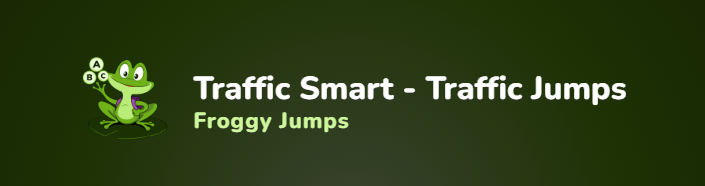
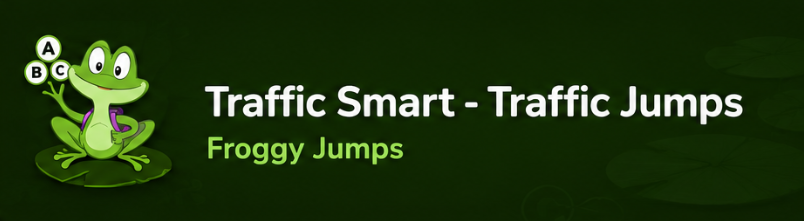
membetulkan yang belum betul

diff --git a/games.html b/games.html
@@ -84,11 +84,11 @@
             <h1 class="font-heading font-black text-3xl md:text-5xl lg:text-6xl text-white mb-3 md:mb-5 leading-[1.1]">
                 Eksplorasi <span class="text-amber">Game</span><br>Edukasi Lainnya
             </h1>
-            <p class="text-gray-400 text-sm md:text-base max-w-xl">Kuis interaktif, permainan katak, pencocokan rambu, dan memory game untuk memperluas wawasan lalu lintas.</p>
+            <p class="text-gray-400 text-sm md:text-base max-w-xl">Kuis interaktif, anagram, roda pertanyaan, word search, dan berbagai game edukasi lainnya untuk memperluas wawasan lalu lintas.</p>
             <div class="flex flex-wrap gap-3 mt-6">
                 <div class="flex items-center gap-2 bg-white/5 border border-white/10 rounded-xl px-3 md:px-4 py-2">
                     <i class="fa-solid fa-gamepad text-amber text-xs md:text-sm"></i>
-                    <span class="text-white text-[11px] md:text-xs font-bold">4 Game</span>
+                    <span class="text-white text-[11px] md:text-xs font-bold">9 Game</span>
                 </div>
                 <div class="flex items-center gap-2 bg-white/5 border border-white/10 rounded-xl px-3 md:px-4 py-2">
                     <i class="fa-solid fa-globe text-green-400 text-xs md:text-sm"></i>
@@ -108,8 +108,8 @@
 
             <!-- Game 1 -->
             <div class="bg-white rounded-2xl shadow-md border border-gray-100 fade-up" style="overflow:hidden;">
-                <div style="position:relative;height:200px;overflow:hidden;">
-                    <img src="game1.webp" alt="A, B or C?" style="width:100%;height:100%;object-fit:cover;display:block;">
+                <div style="position:relative;height:200px;overflow:hidden;background:#ffffff;">
+                    <img src="game1.webp" alt="A, B or C?" style="width:100%;height:100%;object-fit:contain;display:block;">
                     <div style="position:absolute;inset:0;background:linear-gradient(to top,rgba(0,0,0,0.3),transparent);"></div>
                     <span style="position:absolute;top:10px;right:10px;background:rgba(255,255,255,0.95);color:#6b21a8;font-weight:700;font-size:10px;padding:3px 10px;border-radius:8px;box-shadow:0 2px 8px rgba(0,0,0,0.1);z-index:2;">Kahoot!</span>
                     <span style="position:absolute;bottom:10px;left:12px;background:rgba(147,51,234,0.85);color:white;font-weight:700;font-size:9px;padding:2px 8px;border-radius:6px;text-transform:uppercase;z-index:2;">Kuis Pilihan Ganda</span>
@@ -123,8 +123,8 @@
 
             <!-- Game 2 -->
             <div class="bg-white rounded-2xl shadow-md border border-gray-100 fade-up" style="overflow:hidden;">
-                <div style="position:relative;height:200px;overflow:hidden;">
-                    <img src="game2.webp" alt="Traffic Jumps" style="width:100%;height:100%;object-fit:cover;display:block;">
+                <div style="position:relative;height:200px;overflow:hidden;background:#1a3a1a;">
+                    <img src="game2.webp" alt="Traffic Jumps" style="width:100%;height:100%;object-fit:contain;display:block;">
                     <div style="position:absolute;inset:0;background:linear-gradient(to top,rgba(0,0,0,0.3),transparent);"></div>
                     <span style="position:absolute;top:10px;right:10px;background:rgba(255,255,255,0.95);color:#166534;font-weight:700;font-size:10px;padding:3px 10px;border-radius:8px;box-shadow:0 2px 8px rgba(0,0,0,0.1);z-index:2;">Educaplay</span>
                     <span style="position:absolute;bottom:10px;left:12px;background:rgba(22,163,74,0.85);color:white;font-weight:700;font-size:9px;padding:2px 8px;border-radius:6px;text-transform:uppercase;z-index:2;">Froggy Jumps</span>
@@ -138,8 +138,8 @@
 
             <!-- Game 3 -->
             <div class="bg-white rounded-2xl shadow-md border border-gray-100 fade-up" style="overflow:hidden;">
-                <div style="position:relative;height:200px;overflow:hidden;">
-                    <img src="game3.webp" alt="Pasangan Jejak Rambu" style="width:100%;height:100%;object-fit:cover;display:block;">
+                <div style="position:relative;height:200px;overflow:hidden;background:#1a3a1a;">
+                    <img src="game3.webp" alt="Pasangan Jejak Rambu" style="width:100%;height:100%;object-fit:contain;display:block;">
                     <div style="position:absolute;inset:0;background:linear-gradient(to top,rgba(0,0,0,0.3),transparent);"></div>
                     <span style="position:absolute;top:10px;right:10px;background:rgba(255,255,255,0.95);color:#1e40af;font-weight:700;font-size:10px;padding:3px 10px;border-radius:8px;box-shadow:0 2px 8px rgba(0,0,0,0.1);z-index:2;">Educaplay</span>
                     <span style="position:absolute;bottom:10px;left:12px;background:rgba(37,99,235,0.85);color:white;font-weight:700;font-size:9px;padding:2px 8px;border-radius:6px;text-transform:uppercase;z-index:2;">Matching Game</span>
@@ -153,8 +153,8 @@
 
             <!-- Game 4 -->
             <div class="bg-white rounded-2xl shadow-md border border-gray-100 fade-up" style="overflow:hidden;">
-                <div style="position:relative;height:200px;overflow:hidden;">
-                    <img src="game4.webp" alt="Memory Rambu" style="width:100%;height:100%;object-fit:cover;display:block;">
+                <div style="position:relative;height:200px;overflow:hidden;background:#1a3a1a;">
+                    <img src="game4.webp" alt="Memory Rambu" style="width:100%;height:100%;object-fit:contain;display:block;">
                     <div style="position:absolute;inset:0;background:linear-gradient(to top,rgba(0,0,0,0.3),transparent);"></div>
                     <span style="position:absolute;top:10px;right:10px;background:rgba(255,255,255,0.95);color:#92400e;font-weight:700;font-size:10px;padding:3px 10px;border-radius:8px;box-shadow:0 2px 8px rgba(0,0,0,0.1);z-index:2;">Educaplay</span>
                     <span style="position:absolute;bottom:10px;left:12px;background:rgba(245,158,11,0.85);color:white;font-weight:700;font-size:9px;padding:2px 8px;border-radius:6px;text-transform:uppercase;z-index:2;">Memory Game</span>
@@ -163,6 +163,81 @@
                     <h3 style="font-family:'Poppins',sans-serif;font-weight:700;font-size:18px;color:#0A1A32;margin:0 0 6px 0;">Memory Rambu Lalu Lintas</h3>
                     <p style="color:#6b7280;font-size:13px;line-height:1.6;margin:0 0 16px 0;">Cari dan cocokkan pasangan kartu rambu lalu lintas untuk melatih daya ingat.</p>
                     <a href="https://www.educaplay.com/learning-resources/29994264-traffic_smart.html" target="_blank" style="display:block;text-align:center;background:#f59e0b;color:white;font-weight:700;padding:12px;border-radius:12px;font-size:14px;text-decoration:none;box-shadow:0 4px 14px rgba(245,158,11,0.25);">Mainkan Sekarang &#8594;</a>
+                </div>
+            </div>
+
+            <!-- Game 5 -->
+            <div class="bg-white rounded-2xl shadow-md border border-gray-100 fade-up" style="overflow:hidden;">
+                <div style="position:relative;height:200px;overflow:hidden;background:#2a2a2a;">
+                    <img src="game5.webp" alt="Roda Pertanyaan" style="width:100%;height:100%;object-fit:contain;display:block;">
+                    <div style="position:absolute;inset:0;background:linear-gradient(to top,rgba(0,0,0,0.3),transparent);"></div>
+                    <span style="position:absolute;top:10px;right:10px;background:rgba(255,255,255,0.95);color:#dc2626;font-weight:700;font-size:10px;padding:3px 10px;border-radius:8px;box-shadow:0 2px 8px rgba(0,0,0,0.1);z-index:2;">Wordwall</span>
+                    <span style="position:absolute;bottom:10px;left:12px;background:rgba(220,38,38,0.85);color:white;font-weight:700;font-size:9px;padding:2px 8px;border-radius:6px;text-transform:uppercase;z-index:2;">Roda Pertanyaan</span>
+                </div>
+                <div style="padding:16px 20px 20px;">
+                    <h3 style="font-family:'Poppins',sans-serif;font-weight:700;font-size:18px;color:#0A1A32;margin:0 0 6px 0;">Roda Pertanyaan</h3>
+                    <p style="color:#6b7280;font-size:13px;line-height:1.6;margin:0 0 16px 0;">Putar roda dan jawab pertanyaan seputar lalu lintas untuk menguji pengetahuanmu.</p>
+                    <a href="https://wordwall.net/id/resource/116395813/traffic-smart/traffic-smart-roda-pertanyaan" target="_blank" style="display:block;text-align:center;background:#dc2626;color:white;font-weight:700;padding:12px;border-radius:12px;font-size:14px;text-decoration:none;box-shadow:0 4px 14px rgba(220,38,38,0.25);">Mainkan Sekarang &#8594;</a>
+                </div>
+            </div>
+
+            <!-- Game 6 -->
+            <div class="bg-white rounded-2xl shadow-md border border-gray-100 fade-up" style="overflow:hidden;">
+                <div style="position:relative;height:200px;overflow:hidden;background:#3d2b1f;">
+                    <img src="game6.webp" alt="Anagram" style="width:100%;height:100%;object-fit:contain;display:block;">
+                    <div style="position:absolute;inset:0;background:linear-gradient(to top,rgba(0,0,0,0.3),transparent);"></div>
+                    <span style="position:absolute;top:10px;right:10px;background:rgba(255,255,255,0.95);color:#dc2626;font-weight:700;font-size:10px;padding:3px 10px;border-radius:8px;box-shadow:0 2px 8px rgba(0,0,0,0.1);z-index:2;">Wordwall</span>
+                    <span style="position:absolute;bottom:10px;left:12px;background:rgba(168,85,247,0.85);color:white;font-weight:700;font-size:9px;padding:2px 8px;border-radius:6px;text-transform:uppercase;z-index:2;">Anagram</span>
+                </div>
+                <div style="padding:16px 20px 20px;">
+                    <h3 style="font-family:'Poppins',sans-serif;font-weight:700;font-size:18px;color:#0A1A32;margin:0 0 6px 0;">Anagram Menyusun Huruf</h3>
+                    <p style="color:#6b7280;font-size:13px;line-height:1.6;margin:0 0 16px 0;">Susun huruf acak menjadi kata-kata terkait rambu lalu lintas dengan cepat.</p>
+                    <a href="https://wordwall.net/id/resource/116495567/traffic-smart/traffic-smart-anagram-menyusun-huruf" target="_blank" style="display:block;text-align:center;background:#a855f7;color:white;font-weight:700;padding:12px;border-radius:12px;font-size:14px;text-decoration:none;box-shadow:0 4px 14px rgba(168,85,247,0.25);">Mainkan Sekarang &#8594;</a>
+                </div>
+            </div>
+
+            <!-- Game 7 -->
+            <div class="bg-white rounded-2xl shadow-md border border-gray-100 fade-up" style="overflow:hidden;">
+                <div style="position:relative;height:200px;overflow:hidden;background:#1a3a1a;">
+                    <img src="game7.webp" alt="Mencocokkan Kalimat" style="width:100%;height:100%;object-fit:contain;display:block;">
+                    <div style="position:absolute;inset:0;background:linear-gradient(to top,rgba(0,0,0,0.3),transparent);"></div>
+                    <span style="position:absolute;top:10px;right:10px;background:rgba(255,255,255,0.95);color:#1e40af;font-weight:700;font-size:10px;padding:3px 10px;border-radius:8px;box-shadow:0 2px 8px rgba(0,0,0,0.1);z-index:2;">Educaplay</span>
+                    <span style="position:absolute;bottom:10px;left:12px;background:rgba(37,99,235,0.85);color:white;font-weight:700;font-size:9px;padding:2px 8px;border-radius:6px;text-transform:uppercase;z-index:2;">Mencocokkan Kalimat</span>
+                </div>
+                <div style="padding:16px 20px 20px;">
+                    <h3 style="font-family:'Poppins',sans-serif;font-weight:700;font-size:18px;color:#0A1A32;margin:0 0 6px 0;">Mencocokkan Kalimat</h3>
+                    <p style="color:#6b7280;font-size:13px;line-height:1.6;margin:0 0 16px 0;">Cocokkan kalimat peraturan lalu lintas dengan jawaban yang tepat.</p>
+                    <a href="https://www.educaplay.com/learning-resources/29993938-traffic_smart_mencocokkan_kalimat.html" target="_blank" style="display:block;text-align:center;background:#2563eb;color:white;font-weight:700;padding:12px;border-radius:12px;font-size:14px;text-decoration:none;box-shadow:0 4px 14px rgba(37,99,235,0.25);">Mainkan Sekarang &#8594;</a>
+                </div>
+            </div>
+
+            <!-- Game 8 -->
+            <div class="bg-white rounded-2xl shadow-md border border-gray-100 fade-up" style="overflow:hidden;">
+                <div style="position:relative;height:200px;overflow:hidden;background:#1a3a1a;">
+                    <img src="game8.webp" alt="ABCD Rambu Lalu Lintas" style="width:100%;height:100%;object-fit:contain;display:block;">
+                    <div style="position:absolute;inset:0;background:linear-gradient(to top,rgba(0,0,0,0.3),transparent);"></div>
+                    <span style="position:absolute;top:10px;right:10px;background:rgba(255,255,255,0.95);color:#1e40af;font-weight:700;font-size:10px;padding:3px 10px;border-radius:8px;box-shadow:0 2px 8px rgba(0,0,0,0.1);z-index:2;">Educaplay</span>
+                    <span style="position:absolute;bottom:10px;left:12px;background:rgba(245,158,11,0.85);color:white;font-weight:700;font-size:9px;padding:2px 8px;border-radius:6px;text-transform:uppercase;z-index:2;">ABCD</span>
+                </div>
+                <div style="padding:16px 20px 20px;">
+                    <h3 style="font-family:'Poppins',sans-serif;font-weight:700;font-size:18px;color:#0A1A32;margin:0 0 6px 0;">ABCD Rambu Lalu Lintas</h3>
+                    <p style="color:#6b7280;font-size:13px;line-height:1.6;margin:0 0 16px 0;">Pilihan ganda interaktif untuk menguji pemahaman tentang rambu lalu lintas Indonesia.</p>
+                    <a href="https://www.educaplay.com/learning-resources/29994189-rambu_lalu_lintas_indonesia.html" target="_blank" style="display:block;text-align:center;background:#f59e0b;color:white;font-weight:700;padding:12px;border-radius:12px;font-size:14px;text-decoration:none;box-shadow:0 4px 14px rgba(245,158,11,0.25);">Mainkan Sekarang &#8594;</a>
+                </div>
+            </div>
+
+            <!-- Game 9 -->
+            <div class="bg-white rounded-2xl shadow-md border border-gray-100 fade-up" style="overflow:hidden;">
+                <div style="position:relative;height:200px;overflow:hidden;background:#1a3a1a;">
+                    <img src="game9.webp" alt="Word Search Puzzles" style="width:100%;height:100%;object-fit:contain;display:block;">
+                    <div style="position:absolute;inset:0;background:linear-gradient(to top,rgba(0,0,0,0.3),transparent);"></div>
+                    <span style="position:absolute;top:10px;right:10px;background:rgba(255,255,255,0.95);color:#1e40af;font-weight:700;font-size:10px;padding:3px 10px;border-radius:8px;box-shadow:0 2px 8px rgba(0,0,0,0.1);z-index:2;">Educaplay</span>
+                    <span style="position:absolute;bottom:10px;left:12px;background:rgba(20,184,166,0.85);color:white;font-weight:700;font-size:9px;padding:2px 8px;border-radius:6px;text-transform:uppercase;z-index:2;">Word Search</span>
+                </div>
+                <div style="padding:16px 20px 20px;">
+                    <h3 style="font-family:'Poppins',sans-serif;font-weight:700;font-size:18px;color:#0A1A32;margin:0 0 6px 0;">Word Search Puzzles</h3>
+                    <p style="color:#6b7280;font-size:13px;line-height:1.6;margin:0 0 16px 0;">Temukan kata-kata tersembunyi seputar rambu dan peraturan lalu lintas dalam teka-teki kata.</p>
+                    <a href="https://www.educaplay.com/learning-resources/29994743-traffic_smart_word_search_puzzle.html" target="_blank" style="display:block;text-align:center;background:#14b8a6;color:white;font-weight:700;padding:12px;border-radius:12px;font-size:14px;text-decoration:none;box-shadow:0 4px 14px rgba(20,184,166,0.25);">Mainkan Sekarang &#8594;</a>
                 </div>
             </div>
 
@@ -197,7 +272,7 @@
                 <div>
                     <h4 class="font-heading font-bold text-sm text-navy mb-3">Kontak</h4>
                     <div class="space-y-2 text-xs text-gray-500">
-                        <div class="flex items-center gap-2"><i class="fa-solid fa-envelope text-amber w-4"></i> trafficSmartEdu@gmail.com</div>
+                        <div class="flex items-center gap-2"><i class="fa-solid fa-envelope text-amber w-4"></i> trafficsmart.edu@gmail.com</div>
                         <div class="flex items-center gap-2"><i class="fa-brands fa-whatsapp text-green-500 w-4"></i> 0812-4711-9063</div>
                         <div class="flex items-center gap-2"><i class="fa-solid fa-location-dot text-red-400 w-4"></i> Mahakam Ulu, Kalimantan Timur</div>
                     </div>

diff --git a/index.html b/index.html
@@ -133,26 +133,26 @@
             <div class="max-w-7xl mx-auto">
                 <h2 class="fade-up font-heading font-bold text-2xl md:text-4xl text-navy text-center mb-10 md:mb-14">Fitur Utama</h2>
                 <div class="grid grid-cols-2 md:grid-cols-4 gap-4 md:gap-8">
-                    <div class="fade-up delay-100 feature-card bg-white p-4 md:p-8 rounded-2xl md:rounded-3xl shadow-sm border border-gray-100 text-center">
+                    <a href="materi.html" class="fade-up delay-100 feature-card bg-white p-4 md:p-8 rounded-2xl md:rounded-3xl shadow-sm border border-gray-100 text-center block hover:shadow-lg transition-shadow">
                         <div class="w-12 h-12 md:w-16 md:h-16 bg-blue-50 rounded-full flex items-center justify-center mx-auto mb-3 md:mb-5"><i class="fa-solid fa-book-open text-blue-500 text-lg md:text-2xl"></i></div>
                         <h4 class="font-bold text-navy text-sm md:text-lg mb-1 md:mb-2">Materi</h4>
                         <p class="text-gray-500 text-xs md:text-sm leading-relaxed">Panduan lengkap rambu dan marka jalan.</p>
-                    </div>
-                    <div class="fade-up delay-200 feature-card bg-white p-4 md:p-8 rounded-2xl md:rounded-3xl shadow-sm border border-gray-100 text-center">
+                    </a>
+                    <a href="simulasi.html" class="fade-up delay-200 feature-card bg-white p-4 md:p-8 rounded-2xl md:rounded-3xl shadow-sm border border-gray-100 text-center block hover:shadow-lg transition-shadow">
                         <div class="w-12 h-12 md:w-16 md:h-16 bg-amber/10 rounded-full flex items-center justify-center mx-auto mb-3 md:mb-5"><i class="fa-solid fa-shield-halved text-amber text-lg md:text-2xl"></i></div>
                         <h4 class="font-bold text-navy text-sm md:text-lg mb-1 md:mb-2">Simulasi</h4>
                         <p class="text-gray-500 text-xs md:text-sm leading-relaxed">Praktek berkendara aman di virtual.</p>
-                    </div>
-                    <div class="fade-up delay-300 feature-card bg-white p-4 md:p-8 rounded-2xl md:rounded-3xl shadow-sm border border-gray-100 text-center">
+                    </a>
+                    <a href="materi.html" class="fade-up delay-300 feature-card bg-white p-4 md:p-8 rounded-2xl md:rounded-3xl shadow-sm border border-gray-100 text-center block hover:shadow-lg transition-shadow">
                         <div class="w-12 h-12 md:w-16 md:h-16 bg-green-50 rounded-full flex items-center justify-center mx-auto mb-3 md:mb-5"><i class="fa-solid fa-puzzle-piece text-green-500 text-lg md:text-2xl"></i></div>
                         <h4 class="font-bold text-navy text-sm md:text-lg mb-1 md:mb-2">Gamifikasi</h4>
                         <p class="text-gray-500 text-xs md:text-sm leading-relaxed">Belajar sambil mengumpulkan poin.</p>
-                    </div>
-                    <div class="fade-up delay-400 feature-card bg-white p-4 md:p-8 rounded-2xl md:rounded-3xl shadow-sm border border-gray-100 text-center">
+                    </a>
+                    <a href="games.html" class="fade-up delay-400 feature-card bg-white p-4 md:p-8 rounded-2xl md:rounded-3xl shadow-sm border border-gray-100 text-center block hover:shadow-lg transition-shadow">
                         <div class="w-12 h-12 md:w-16 md:h-16 bg-blue-50 rounded-full flex items-center justify-center mx-auto mb-3 md:mb-5"><i class="fa-solid fa-link text-blue-500 text-lg md:text-2xl"></i></div>
                         <h4 class="font-bold text-navy text-sm md:text-lg mb-1 md:mb-2">Game Lain</h4>
                         <p class="text-gray-500 text-xs md:text-sm leading-relaxed">Eksplorasi game edukasi tambahan.</p>
-                    </div>
+                    </a>
                 </div>
             </div>
         </section>
@@ -241,7 +241,7 @@
                 <div class="fade-up delay-100">
                     <h4 class="font-heading font-bold text-sm md:text-base text-navy mb-3 md:mb-4">Kontak</h4>
                     <div class="space-y-2 md:space-y-3 text-xs md:text-sm text-gray-500">
-                        <div class="flex items-center gap-2"><i class="fa-solid fa-envelope text-amber w-4"></i> trafficSmartEdu@gmail.com</div>
+                        <div class="flex items-center gap-2"><i class="fa-solid fa-envelope text-amber w-4"></i> trafficsmart.edu@gmail.com</div>
                         <div class="flex items-center gap-2"><i class="fa-brands fa-whatsapp text-green-500 w-4"></i> 0812-4711-9063</div>
                         <div class="flex items-center gap-2"><i class="fa-solid fa-location-dot text-red-400 w-4"></i> Mahakam Ulu, Kalimantan Timur</div>
                     </div>
